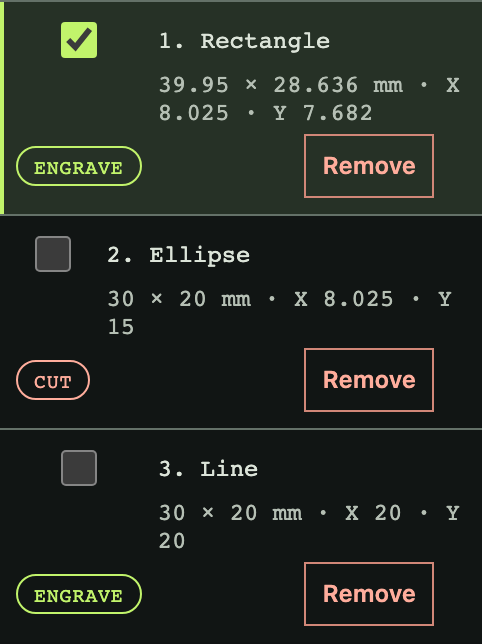
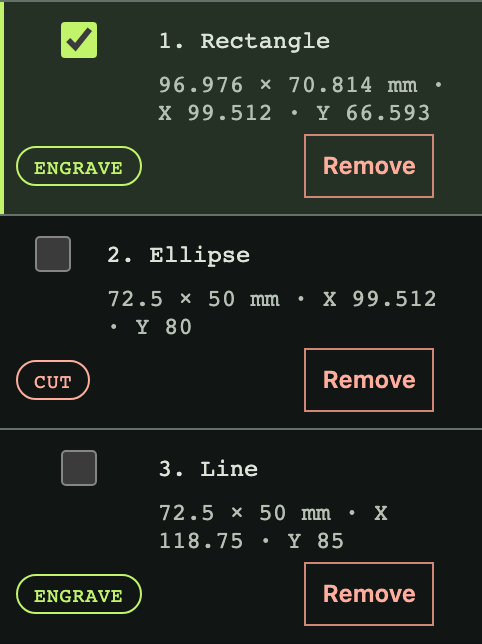
fix: start designer projects with usable defaults
Size new rectangle and vector shapes from the declared work area and center them instead of always using a 30 x 20 mm shape. Clamp default operation feed and power to the selected profile limits so new projects do not open with a range error. Cover the defaults in the browser suite, stabilize tests that assert exact transformed geometry, and refresh the designer screenshots.

diff --git a/internal/server/assets/app.js b/internal/server/assets/app.js
@@ -747,6 +747,41 @@
 
   function milli(value) { return Math.round(value * 1000); }
 
+  function floorMm(value) { return Math.floor(value * 1000) / 1000; }
+
+  // New designs should start with visible geometry and machine settings that
+  // the selected profile can actually run. A fixed 30 x 20 mm shape is tiny on
+  // a large bed, and a fixed 600 mm/min feed is invalid on a slow profile.
+  function defaultDesignLengthMm(total, fraction, availableMm = total, minimumMm = 10) {
+    const available = floorMm(availableMm);
+    if (!(total > 0) || !(available > 0)) return 0;
+    return Math.min(Math.max(floorMm(total * fraction), Math.min(minimumMm, available)), available);
+  }
+
+  function defaultDesignPositionMm(total, length) {
+    if (!(total > 0) || !(length > 0)) return 0;
+    return floorMm((total - length) / 2);
+  }
+
+  function defaultOperationFeed(profile) {
+    const minimum = Number(profile?.min_feed_mm_min);
+    const maximum = Number(profile?.max_feed_mm_min);
+    if (!Number.isFinite(minimum) || !Number.isFinite(maximum) || maximum < minimum) return 600;
+    return Math.min(Math.max(600, minimum), maximum);
+  }
+
+  function defaultOperationPower(profile) {
+    const maximum = Number(profile?.max_power_percent);
+    const maximumS = Number(profile?.max_s);
+    if (!Number.isFinite(maximum) || maximum <= 0) return 25;
+    let power = Math.min(25, maximum);
+    if (Number.isFinite(maximumS) && maximumS > 0) {
+      // The lowest percentage that still rounds to a nonzero spindle value.
+      power = Math.max(power, Math.ceil((50 / maximumS) * 1000) / 1000);
+    }
+    return Math.min(power, maximum);
+  }
+
   function projectValidation() {
     const profile = selectedProfile();
     if (!profile) return { _form: "Select or create a declared profile first." };
@@ -854,13 +889,20 @@
     $("#project-form").hidden = false;
     $("#project-form-title").textContent = project ? `Edit ${project.name}` : "New rectangle project";
     $(projectFields.name).value = project ? project.name : "Untitled rectangle";
-    const rect = project ? project.rectangle : { x_mm: 10, y_mm: 20, width_mm: 30, height_mm: 20 };
+    const profile = selectedProfile();
+    const defaultWidth = defaultDesignLengthMm(Number(profile?.width_mm), 0.4);
+    const defaultHeight = defaultDesignLengthMm(Number(profile?.height_mm), 0.4);
+    const rect = project ? project.rectangle : {
+      x_mm: defaultDesignPositionMm(Number(profile?.width_mm), defaultWidth),
+      y_mm: defaultDesignPositionMm(Number(profile?.height_mm), defaultHeight),
+      width_mm: defaultWidth, height_mm: defaultHeight,
+    };
     $(projectFields.x_mm).value = String(rect.x_mm);
     $(projectFields.y_mm).value = String(rect.y_mm);
     $(projectFields.width_mm).value = String(rect.width_mm);
     $(projectFields.height_mm).value = String(rect.height_mm);
-    $(projectFields.feed_mm_min).value = String(project ? project.operation.feed_mm_min : 600);
-    $(projectFields.power_percent).value = String(project ? project.operation.power_percent : 25);
+    $(projectFields.feed_mm_min).value = String(project ? project.operation.feed_mm_min : defaultOperationFeed(profile));
+    $(projectFields.power_percent).value = String(project ? project.operation.power_percent : defaultOperationPower(profile));
     projectDraftBaseline = projectFormState();
     $("#delete-project").hidden = !project;
     $("#stale-profile-warning").hidden = true;
@@ -1568,7 +1610,8 @@
     vectorObjects.forEach((object) => {
       if (objectKind(object) === "text") object.textGeometry = newTextGeometryState();
     });
-    vectorOperations = project ? project.operations.map((operation) => ({ ...operation })) : [{ id: vectorID("operation"), type: "vector-engrave", feed_mm_min: 600, power_percent: 25 }];
+    const profile = selectedProfile();
+    vectorOperations = project ? project.operations.map((operation) => ({ ...operation })) : [{ id: vectorID("operation"), type: "vector-engrave", feed_mm_min: defaultOperationFeed(profile), power_percent: defaultOperationPower(profile) }];
     selectedVectorObject = vectorObjects[0]?.id || "";
     selectedVectorObjects = new Set(selectedVectorObject ? [selectedVectorObject] : []);
     $("#vector-align-status").textContent = "";
@@ -1626,9 +1669,10 @@
   async function addVectorShape(type) {
     const profile = selectedProfile();
     if (!profile) return;
-    const x = Math.min(10 + vectorObjects.length * 5, Math.max(0, profile.width_mm - 20));
-    const y = Math.min(10 + vectorObjects.length * 5, Math.max(0, profile.height_mm - 20));
-    const width = Math.min(30, profile.width_mm - x), height = Math.min(20, profile.height_mm - y);
+    const width = defaultDesignLengthMm(profile.width_mm, 0.25);
+    const height = defaultDesignLengthMm(profile.height_mm, 0.25);
+    const x = Math.min(defaultDesignPositionMm(profile.width_mm, width) + vectorObjects.length * 5, Math.max(0, profile.width_mm - width));
+    const y = Math.min(defaultDesignPositionMm(profile.height_mm, height) + vectorObjects.length * 5, Math.max(0, profile.height_mm - height));
     const closed = type !== "line";
     const object = type === "text"
       ? { id: vectorID("text"), kind: "text", text: { content: "EMBER", font: "emberdeck-stick-v1", size_mm: 10, x_mm: x, y_mm: y }, subpaths: [] }
@@ -1936,7 +1980,8 @@
     } catch (error) { setDesignerError(error.message); }
   });
   $("#add-operation").addEventListener("click", () => {
-    const operation = { id: vectorID("operation"), type: "vector-engrave", feed_mm_min: 600, power_percent: 25 };
+    const profile = selectedProfile();
+    const operation = { id: vectorID("operation"), type: "vector-engrave", feed_mm_min: defaultOperationFeed(profile), power_percent: defaultOperationPower(profile) };
     vectorOperations.push(operation);
     renderVectorEditor();
     recordVectorHistory();

diff --git a/e2e/designer-page.spec.js b/e2e/designer-page.spec.js
@@ -62,6 +62,43 @@ test('designer only shows shape inputs for a selected shape and guides an empty 
   await expect(page.locator('#vector-operation-list .layer-type')).toContainText(/type/i);
 });
 
+test('new projects start with work-area-sized shapes and profile-valid operation defaults', async ({ page }) => {
+  const attempt = `${test.info().repeatEachIndex}-${Date.now()}`;
+  await page.goto('/designer');
+  await connect(page);
+  await page.getByRole('button', { name: 'New profile' }).click();
+  await page.locator('#profile-name').fill(`Sized defaults profile ${attempt}`);
+  await page.locator('#profile-width').fill('300');
+  await page.locator('#profile-height').fill('200');
+  await page.locator('#profile-max-s').fill('1000');
+  await page.locator('#profile-min-feed').fill('1200');
+  await page.locator('#profile-max-feed').fill('1800');
+  await page.locator('#profile-max-power').fill('60');
+  await page.getByRole('button', { name: 'Save profile' }).click();
+  await expect(page.locator('#notice .notice-message')).toContainText('Profile saved');
+
+  await page.getByRole('button', { name: 'New rectangle project' }).click();
+  await expect(page.locator('#rect-x')).toHaveValue('90');
+  await expect(page.locator('#rect-y')).toHaveValue('60');
+  await expect(page.locator('#rect-width')).toHaveValue('120');
+  await expect(page.locator('#rect-height')).toHaveValue('80');
+  await expect(page.locator('#operation-feed')).toHaveValue('1200');
+  await expect(page.locator('#operation-power')).toHaveValue('25');
+  await expect(page.locator('#project-validation')).toBeHidden();
+  await page.getByRole('button', { name: 'Close editor' }).click();
+
+  await page.getByRole('button', { name: 'New vector project' }).click();
+  await expect(page.getByLabel('Operation 1 feed (mm/min)')).toHaveValue('1200');
+  await expect(page.getByLabel('Operation 1 power (%)')).toHaveValue('25');
+  await expect(page.locator('#vector-validation')).toBeHidden();
+  await page.getByRole('button', { name: 'Add rectangle' }).click();
+  await expect(page.locator('#vector-x')).toHaveValue('112.5');
+  await expect(page.locator('#vector-y')).toHaveValue('75');
+  await expect(page.locator('#vector-width')).toHaveValue('75');
+  await expect(page.locator('#vector-height')).toHaveValue('50');
+  await expect(page.locator('#vector-validation')).toBeHidden();
+});
+
 test('designer undo and redo restore shapes, text geometry, and operation layers', async ({ page }) => {
   const attempt = `${test.info().repeatEachIndex}-${Date.now()}`;
   await page.goto('/designer');
@@ -175,15 +212,16 @@ test('designer has its own page and supports selecting, dragging, and scaling a 
   await handle.scrollIntoViewIfNeeded();
   const handleBox = await handle.boundingBox();
   const beforeScale = await shape.getAttribute('d');
-  const rotatedLocalDrag = await page.locator('#vector-preview').evaluate(svg => {
+  const shapeWidthMm = Number(await page.locator('#vector-width').inputValue());
+  const rotatedLocalDrag = await page.locator('#vector-preview').evaluate((svg, widthMm) => {
     const matrix = svg.getScreenCTM();
-    const distance = 10 * 1.45;
+    const distance = (widthMm / 3) * 1.45;
     const angle = Math.PI / 4;
     return {
       x: matrix.a * distance * Math.cos(angle) + matrix.c * -distance * Math.sin(angle),
       y: matrix.b * distance * Math.cos(angle) + matrix.d * -distance * Math.sin(angle),
     };
-  });
+  }, shapeWidthMm);
   await page.mouse.move(handleBox.x + handleBox.width / 2, handleBox.y + handleBox.height / 2);
   await page.mouse.down();
   await page.mouse.move(handleBox.x + handleBox.width / 2 + rotatedLocalDrag.x, handleBox.y + handleBox.height / 2 + rotatedLocalDrag.y);

diff --git a/e2e/designer-alignment.spec.js b/e2e/designer-alignment.spec.js
@@ -29,10 +29,18 @@ test('keyboard multi-selection aligns transformed shapes and persists the new pl
   await page.getByRole('button', { name: 'New vector project' }).click();
   await page.locator('#vector-name').fill(projectName);
   await page.getByRole('button', { name: 'Add rectangle' }).click();
+  await page.locator('#vector-x').fill('10');
+  await page.locator('#vector-y').fill('10');
+  await page.locator('#vector-width').fill('30');
+  await page.locator('#vector-height').fill('20');
   const alignLeft = page.getByRole('button', { name: 'Align left' });
   await expect(alignLeft).toBeVisible({ timeout: 2000 });
   await expect(alignLeft).toBeDisabled();
   await page.getByRole('button', { name: 'Add ellipse' }).click();
+  await page.locator('#vector-x').fill('15');
+  await page.locator('#vector-y').fill('15');
+  await page.locator('#vector-width').fill('30');
+  await page.locator('#vector-height').fill('20');
   await expect(alignLeft).toBeDisabled();
 
   // Rotate the second shape so alignment must use its actual transformed bounds.

diff --git a/e2e/designer.spec.js b/e2e/designer.spec.js
@@ -535,10 +535,11 @@ test('multi-path vector project saves, reopens, generates mixed operations, and 
   await expect(page.getByRole('button', { name: '2. Ellipse' })).toBeVisible();
   await expect(page.locator('#vector-operation-list li')).toHaveCount(2);
   await expect(page.locator('#generate-vector-project')).toBeEnabled();
+  const savedWidth = await page.locator('#vector-width').inputValue();
   await page.locator('#vector-width').fill('0');
   await expect(page.locator('#vector-validation')).toBeVisible();
   await expect(page.locator('#generate-vector-project')).toBeDisabled();
-  await page.locator('#vector-width').fill('30');
+  await page.locator('#vector-width').fill(savedWidth);
   await expect(page.locator('#vector-validation')).toBeHidden();
   await expect(page.locator('#generate-vector-project')).toBeEnabled();
   for (const width of [1440, 1024, 900, 800, 768, 761, 760, 390]) {

diff --git a/e2e/designer-transforms.spec.js b/e2e/designer-transforms.spec.js
@@ -32,6 +32,10 @@ test('selected vector object transform is previewed, saved, reopened, and applie
   await page.getByRole('button', { name: 'New vector project' }).click();
   await page.locator('#vector-name').fill(projectName);
   await page.getByRole('button', { name: 'Add rectangle' }).click();
+  await page.locator('#vector-x').fill('10');
+  await page.locator('#vector-y').fill('10');
+  await page.locator('#vector-width').fill('30');
+  await page.locator('#vector-height').fill('20');
   const preview = page.locator('#vector-preview-content .vector-path').first();
   const originalPath = await preview.getAttribute('d');
   await page.getByLabel('Translate X (mm)').fill('5');

diff --git a/e2e/designer-text.spec.js b/e2e/designer-text.spec.js
@@ -29,6 +29,8 @@ test('editable monoline text saves, reopens, generates engraving geometry, and d
   await page.locator('#vector-name').fill(projectName);
   await page.getByRole('button', { name: 'Add text' }).click();
   await expect(page.locator('#vector-text-content')).toHaveValue('EMBER');
+  await page.locator('#vector-x').fill('10');
+  await page.locator('#vector-y').fill('10');
   const punctuationGeometry = page.waitForResponse((response) => response.url().includes('/api/v1/designer/text-geometry') && response.request().method() === 'POST');
   await page.locator('#vector-text-content').fill('.');
   await punctuationGeometry;

diff --git a/docs/operator-guide.md b/docs/operator-guide.md
@@ -276,8 +276,13 @@ starting position is unknown, so the preview does not draw a travel path to the
 endpoint. Geometry outside the declared envelope, invalid feed or power, and
 values with more than three decimal places block saving and generation.
 The version 1 rectangle editor supports one rectangle and vector engraving.
-Version 2 supports multiple rectangle, ellipse, line, and monoline text objects,
-described below.
+New projects start with geometry sized to the declared work area: 40% of the
+width and height for a rectangle project, and 25% for each newly added vector
+shape, centered in the workspace. New operation layers default to 600 mm/min
+clamped to the selected profile's feed range and 25% power clamped to its power
+limit, so a new project does not open with an avoidable range error. Version 2
+supports multiple rectangle, ellipse, line, and monoline text objects, described
+below.
 The multi-path editor can import a bounded static SVG subset. It converts
 physical dimensions and the viewBox to editable millimetre paths. Supported
 `<text>` elements become open monoline strokes using the fixed
